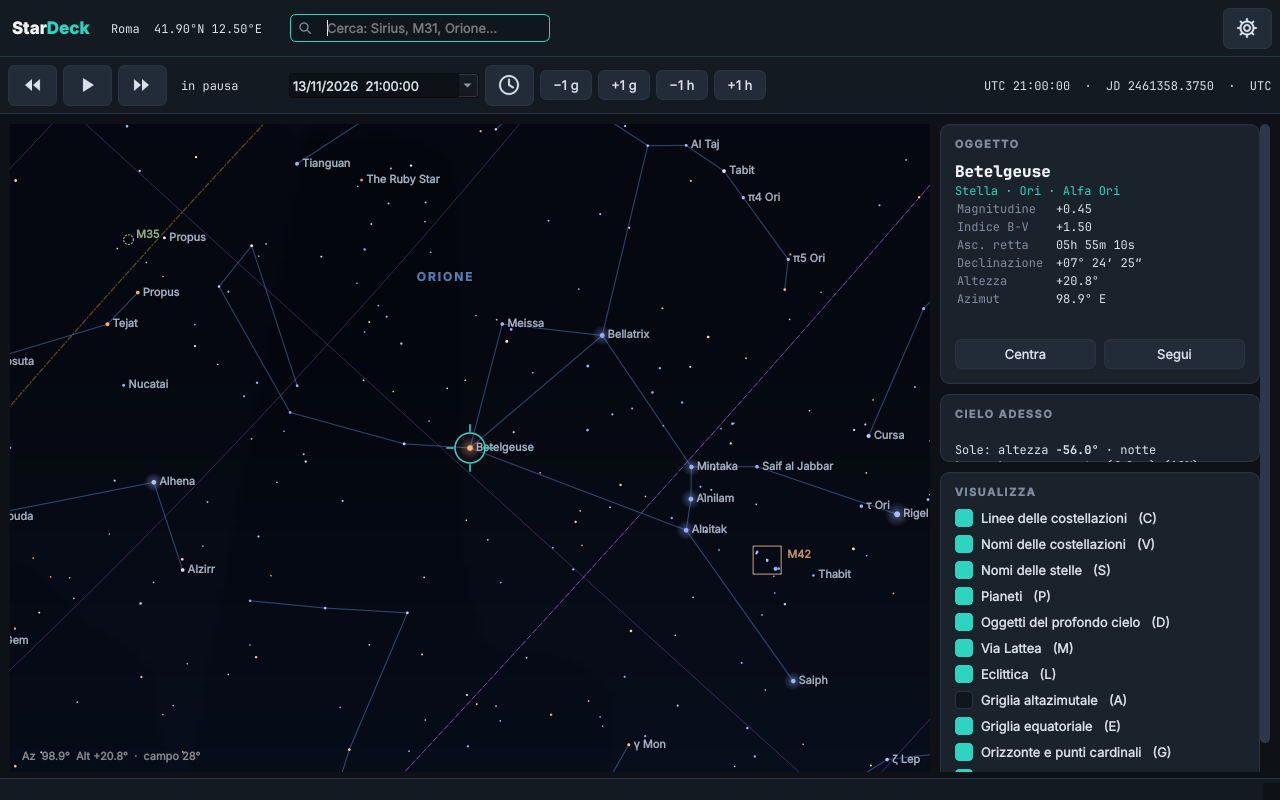
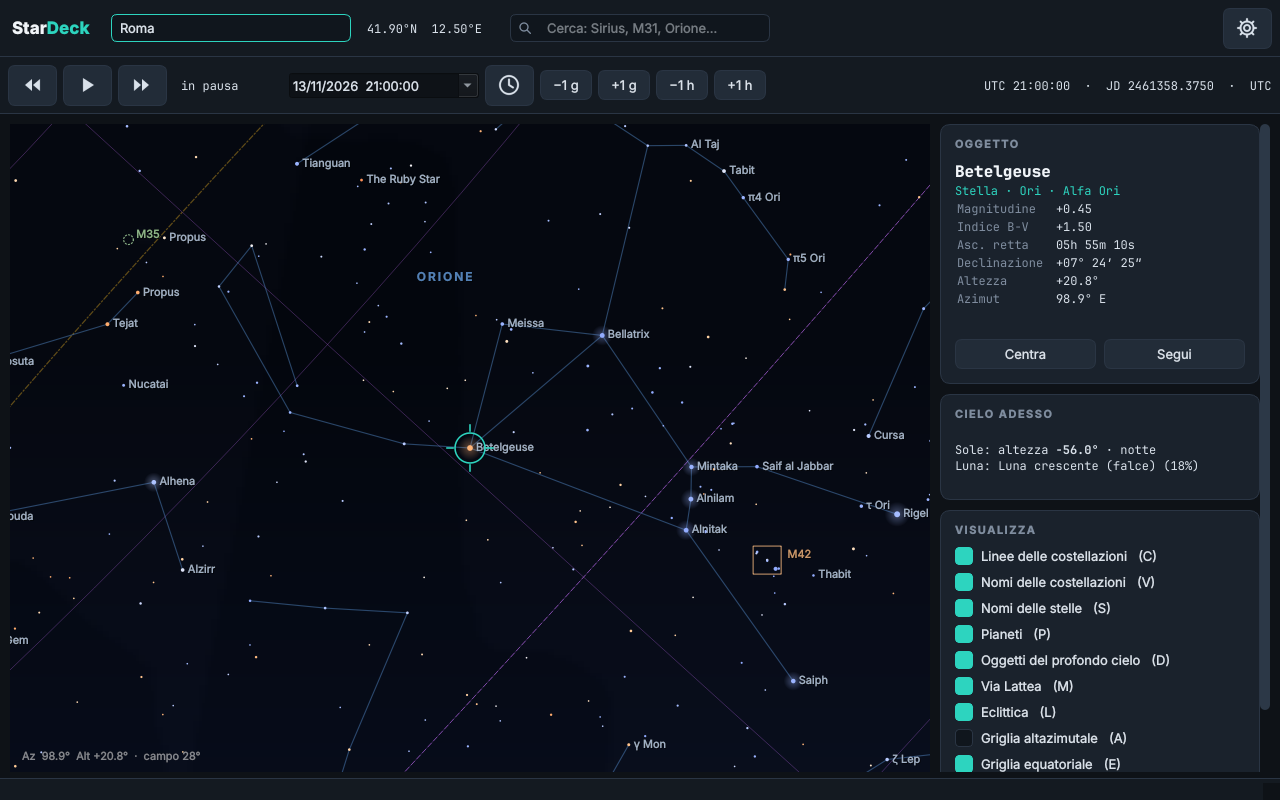
Selezione del luogo dalla barra: elenco esteso, 'Altro luogo…' con coordinate e luoghi salvati
Claude-Session: https://claude.ai/code/session_01JUoeoR6ZYyy1s6Aje29GSS

diff --git a/stardeck/mainwindow.py b/stardeck/mainwindow.py
@@ -6,13 +6,14 @@ from typing import Optional
 
 from PySide6.QtCore import QDateTime, QElapsedTimer, QSettings, Qt, QTimer
 from PySide6.QtGui import QAction, QKeySequence, QTextDocument
-from PySide6.QtWidgets import (QCheckBox, QCompleter, QDateTimeEdit, QFrame, QHBoxLayout, QLabel, QLineEdit, QMainWindow,
+from PySide6.QtWidgets import (QCheckBox, QComboBox, QCompleter, QDateTimeEdit, QFrame, QHBoxLayout, QLabel, QLineEdit, QMainWindow,
                                QPushButton, QScrollArea, QSizePolicy, QToolBar, QToolButton, QVBoxLayout, QWidget)
 
 from . import astro, theme
 from .catalog import Catalog, GREEK
 from .config import APP, ORG, Config
-from .settings_dialog import SettingsDialog
+from .places import PLACES, format_custom, parse_custom
+from .settings_dialog import LocationDialog, SettingsDialog
 from .skyview import Picked, SkyView
 from .widgets import Card
 
@@ -68,8 +69,15 @@ class MainWindow(QMainWindow):
                        f"<span style='font-size:17px;font-weight:800;color:{theme.ACCENT}'>Deck</span>")
         title.setContentsMargins(4, 0, 14, 0)
         tb.addWidget(title)
+        self.place_combo = QComboBox()
+        self.place_combo.setMinimumWidth(240)
+        self.place_combo.setMaxVisibleItems(24)
+        self.place_combo.setToolTip("Luogo di osservazione")
+        self.place_combo.activated.connect(self._place_chosen)
+        tb.addWidget(self.place_combo)
         self.place_label = QLabel()
         self.place_label.setObjectName("kv")
+        self.place_label.setContentsMargins(10, 0, 0, 0)
         tb.addWidget(self.place_label)
         sp = QWidget(); sp.setFixedWidth(16); sp.setObjectName("spacer")
         tb.addWidget(sp)
@@ -208,10 +216,52 @@ class MainWindow(QMainWindow):
         comp.activated.connect(lambda _t: self._do_search())
         self.search.setCompleter(comp)
 
+    def _all_places(self) -> list:
+        return [(n, la, lo, True) for n, la, lo in parse_custom(self.cfg.custom_places)] + [(n, la, lo, False) for n, la, lo in PLACES]
+
     def _update_place_label(self) -> None:
+        """Rebuilds the place list (saved places first) and shows the current one."""
+        c = self.place_combo
+        c.blockSignals(True)
+        c.clear()
+        places = self._all_places()
+        cur = -1
+        for n, la, lo, mine in places:
+            c.addItem(("★ " if mine else "") + n, (n, la, lo))
+            if cur < 0 and n == self.cfg.place and abs(la - self.cfg.lat) < 0.01 and abs(lo - self.cfg.lon) < 0.01:
+                cur = c.count() - 1
+        if cur < 0:                                   # current place not in the list (command line, old settings)
+            c.insertItem(0, self.cfg.place, (self.cfg.place, self.cfg.lat, self.cfg.lon))
+            cur = 0
+        c.addItem("Altro luogo…", None)
+        c.setCurrentIndex(cur)
+        c.blockSignals(False)
         ns = "N" if self.cfg.lat >= 0 else "S"
         ew = "E" if self.cfg.lon >= 0 else "O"
-        self.place_label.setText(f"{self.cfg.place}  {abs(self.cfg.lat):.2f}°{ns} {abs(self.cfg.lon):.2f}°{ew}")
+        self.place_label.setText(f"{abs(self.cfg.lat):.2f}°{ns}  {abs(self.cfg.lon):.2f}°{ew}")
+
+    def _place_chosen(self, _i: int) -> None:
+        d = self.place_combo.currentData()
+        if d is None:
+            dlg = LocationDialog(self.cfg.place, self.cfg.lat, self.cfg.lon, self)
+            if dlg.exec():
+                name, lat, lon = dlg.result_place()
+                if dlg.save.isChecked():
+                    mine = [p for p in parse_custom(self.cfg.custom_places) if p[0] != name]
+                    self.cfg.custom_places = format_custom([(name, lat, lon)] + mine)
+                self.set_place(name, lat, lon)
+            else:
+                self._update_place_label()
+            return
+        self.set_place(*d)
+
+    def set_place(self, name: str, lat: float, lon: float) -> None:
+        self.cfg.place, self.cfg.lat, self.cfg.lon = name, lat, lon
+        self.cfg.save(self.qs)
+        self.view.set_config(self.cfg)
+        self._update_place_label()
+        self._sky_txt = None
+        self.status.setText(f"Luogo: {name}")
 
     # ------------------------------------------------------------------ time
     def _tick(self) -> None:

diff --git a/stardeck/places.py b/stardeck/places.py
@@ -3,10 +3,35 @@ PLACES = [
     ("Roma", 41.90, 12.50), ("Milano", 45.46, 9.19), ("Torino", 45.07, 7.69), ("Venezia", 45.44, 12.33),
     ("Bologna", 44.49, 11.34), ("Firenze", 43.77, 11.26), ("Napoli", 40.85, 14.27), ("Bari", 41.12, 16.87),
     ("Palermo", 38.12, 13.36), ("Cagliari", 39.22, 9.12), ("Lecce", 40.35, 18.17), ("Catanzaro", 38.91, 16.59),
+    ("Genova", 44.41, 8.93), ("Trieste", 45.65, 13.78), ("Perugia", 43.11, 12.39), ("Pescara", 42.46, 14.21), ("Reggio Calabria", 38.11, 15.65),
+    ("Cosenza", 39.30, 16.25), ("Catania", 37.50, 15.09), ("Aosta", 45.74, 7.32), ("Cortina d'Ampezzo", 46.54, 12.14), ("Stromboli", 38.79, 15.21),
     ("Londra", 51.51, -0.13), ("Parigi", 48.86, 2.35), ("Madrid", 40.42, -3.70), ("Berlino", 52.52, 13.40),
-    ("Atene", 37.98, 23.73), ("Reykjavik", 64.15, -21.94), ("Il Cairo", 30.04, 31.24), ("Città del Capo", -33.92, 18.42),
+    ("Atene", 37.98, 23.73), ("Vienna", 48.21, 16.37), ("Zurigo", 47.38, 8.54), ("Amsterdam", 52.37, 4.90), ("Lisbona", 38.72, -9.14),
+    ("Stoccolma", 59.33, 18.07), ("Mosca", 55.76, 37.62), ("Istanbul", 41.01, 28.98), ("Gerusalemme", 31.77, 35.21), ("Nairobi", -1.29, 36.82),
+    ("Pechino", 39.90, 116.41), ("Singapore", 1.35, 103.82), ("Bangkok", 13.76, 100.50), ("Delhi", 28.61, 77.21), ("Rio de Janeiro", -22.91, -43.17),
+    ("Toronto", 43.65, -79.38), ("Chicago", 41.88, -87.63), ("San Francisco", 37.77, -122.42), ("Deserto di Atacama", -23.86, -69.14), ("Reykjavik", 64.15, -21.94), ("Il Cairo", 30.04, 31.24), ("Città del Capo", -33.92, 18.42),
     ("Dubai", 25.20, 55.27), ("Mumbai", 19.08, 72.88), ("Tokyo", 35.68, 139.69), ("Sydney", -33.87, 151.21),
     ("Auckland", -36.85, 174.76), ("New York", 40.71, -74.01), ("Los Angeles", 34.05, -118.24),
     ("Città del Messico", 19.43, -99.13), ("Buenos Aires", -34.60, -58.38), ("Santiago del Cile", -33.45, -70.67),
     ("Mauna Kea (Hawaii)", 19.82, -155.47), ("Polo Nord", 90.0, 0.0), ("Polo Sud", -90.0, 0.0), ("Equatore (0°, 0°)", 0.0, 0.0),
 ]
+
+
+def parse_custom(text: str) -> list:
+    """'Nome|lat|lon;Nome2|lat|lon' -> [(name, lat, lon)] (malformed entries are skipped)."""
+    out = []
+    for part in text.split(";"):
+        bits = part.split("|")
+        if len(bits) != 3:
+            continue
+        try:
+            lat, lon = float(bits[1]), float(bits[2])
+        except ValueError:
+            continue
+        if bits[0].strip() and -90 <= lat <= 90 and -180 <= lon <= 180:
+            out.append((bits[0].strip(), lat, lon))
+    return out
+
+
+def format_custom(places: list) -> str:
+    return ";".join(f"{n.replace('|', ' ').replace(';', ' ')}|{la:.5f}|{lo:.5f}" for n, la, lo in places)

diff --git a/stardeck/settings_dialog.py b/stardeck/settings_dialog.py
@@ -68,3 +68,48 @@ class SettingsDialog(QDialog):
         self.cfg.star_scale = self.scale.value() / 100.0
         self.cfg.show_splash = self.splash.isChecked()
         self.accept()
+
+
+class LocationDialog(QDialog):
+    """Pick any place on Earth: name + coordinates (decimal degrees), optionally saved in the place list."""
+
+    def __init__(self, name: str = "", lat: float = 0.0, lon: float = 0.0, parent=None):
+        super().__init__(parent)
+        self.setWindowTitle("Altro luogo")
+        self.setMinimumWidth(380)
+        lay = QVBoxLayout(self)
+        form = QFormLayout()
+        form.setSpacing(10)
+        self.name = QLineEdit(name)
+        self.name.setPlaceholderText("es. Il mio giardino")
+        self.lat = QDoubleSpinBox(); self.lat.setRange(-90, 90); self.lat.setDecimals(4); self.lat.setSuffix(" °N (− = sud)")
+        self.lon = QDoubleSpinBox(); self.lon.setRange(-180, 180); self.lon.setDecimals(4); self.lon.setSuffix(" °E (− = ovest)")
+        self.lat.setValue(lat); self.lon.setValue(lon)
+        form.addRow("Nome", self.name)
+        form.addRow("Latitudine", self.lat)
+        form.addRow("Longitudine", self.lon)
+        lay.addLayout(form)
+        self.save = QCheckBox("Salva nell'elenco dei luoghi")
+        self.save.setChecked(True)
+        lay.addWidget(self.save)
+        hint = QLabel("Coordinate in gradi decimali (le trovi in qualsiasi mappa: clic destro sul punto).")
+        hint.setObjectName("muted"); hint.setWordWrap(True)
+        lay.addWidget(hint)
+        self.err = QLabel("")
+        self.err.setStyleSheet("color: #f87171;")
+        lay.addWidget(self.err)
+        row = QHBoxLayout()
+        row.addStretch(1)
+        cancel = QPushButton("Annulla"); cancel.clicked.connect(self.reject)
+        ok = QPushButton("Vai"); ok.setObjectName("primary"); ok.clicked.connect(self._accept)
+        row.addWidget(cancel); row.addWidget(ok)
+        lay.addLayout(row)
+
+    def _accept(self) -> None:
+        if not self.name.text().strip():
+            self.err.setText("Dai un nome al luogo.")
+            return
+        self.accept()
+
+    def result_place(self) -> tuple:
+        return self.name.text().strip(), self.lat.value(), self.lon.value()

diff --git a/tests/test_ui.py b/tests/test_ui.py
@@ -175,3 +175,33 @@ def test_splash_paints(app):
     for ms in (0, 1500, 2900):
         s.set_time(ms)
         assert not s.grab().isNull()
+
+
+def test_place_combo_switches_location(win):
+    c = win.place_combo
+    i = c.findText("Tokyo")
+    assert i >= 0
+    c.setCurrentIndex(i)
+    c.activated.emit(i)
+    assert win.cfg.place == "Tokyo" and win.cfg.lat == pytest.approx(35.68)
+    assert win.place_combo.currentText() == "Tokyo" and "35.68°N" in win.place_label.text()
+    assert Config().load(win.qs).place == "Tokyo"
+    win.view.grab()
+
+
+def test_custom_place_saved_and_listed(win, monkeypatch):
+    from stardeck import mainwindow
+    from stardeck.settings_dialog import LocationDialog
+    monkeypatch.setattr(LocationDialog, "exec", lambda self: 1)
+    monkeypatch.setattr(LocationDialog, "result_place", lambda self: ("Il mio giardino", 39.5, 16.1))
+    c = win.place_combo
+    c.setCurrentIndex(c.count() - 1)                       # "Altro luogo…"
+    c.activated.emit(c.count() - 1)
+    assert win.cfg.place == "Il mio giardino" and win.cfg.lat == pytest.approx(39.5)
+    assert c.itemText(0) == "★ Il mio giardino" and c.currentIndex() == 0
+    assert mainwindow.parse_custom(win.cfg.custom_places) == [("Il mio giardino", 39.5, 16.1)]
+
+
+def test_parse_custom_ignores_garbage():
+    from stardeck.places import parse_custom
+    assert parse_custom("a|1|2;bad;x|abc|2;y|95|0;|1|1;ok|-33.9|151.2") == [("a", 1.0, 2.0), ("ok", -33.9, 151.2)]

diff --git a/stardeck/config.py b/stardeck/config.py
@@ -13,6 +13,7 @@ class Config:
     place: str = "Roma"
     lat: float = 41.90              # degrees north
     lon: float = 12.50              # degrees east
+    custom_places: str = ""         # user-saved places, "name|lat|lon;..." (see places.parse_custom)
     # layers
     show_constellation_lines: bool = True
     show_constellation_names: bool = True

diff --git a/README.md b/README.md
@@ -14,7 +14,7 @@ Nessuna dipendenza oltre a PySide6: i calcoli astronomici sono scritti in Python
   (figure e nomi in italiano), 108 oggetti Messier + i principali NGC/IC (ammassi, nebulose, galassie), Via Lattea.
 - **Sistema solare**: Sole, Luna (fase e inclinazione corrette, parallasse topocentrica) e i sette pianeti da Mercurio a Nettuno, con magnitudine.
 - **Tempo**: tempo reale, pausa, avanti/indietro ×60, ×3600, ×86400 (1 min, 1 h, 1 giorno al secondo), ±1 ora/giorno, data e ora editabili, «adesso».
-- **Luogo**: 34 città/località predefinite o coordinate personalizzate (Impostazioni, `Ctrl+,`); fuso orario di sistema.
+- **Luogo**: ~70 città e località predefinite (Europa, mondo, osservatori) nel menu in alto a sinistra, oppure «Altro luogo…» con nome e coordinate, salvabile tra i tuoi luoghi (★); fuso orario di sistema.
 - **Atmosfera**: colore del cielo da giorno a notte secondo l'altezza del Sole, stelle e pianeti deboli che spariscono col chiaro, orizzonte con punti cardinali.
 - **Interazione**: trascina per orientare, rotella per lo zoom (campo da 150° a 1°), clic su un astro per i dettagli (coordinate, altezza/azimut,
   magnitudine…), doppio clic per centrarlo e **seguirlo** mentre il cielo ruota, ricerca per nome (`Sirius`, `M31`, `Orione`, `Giove`…).
